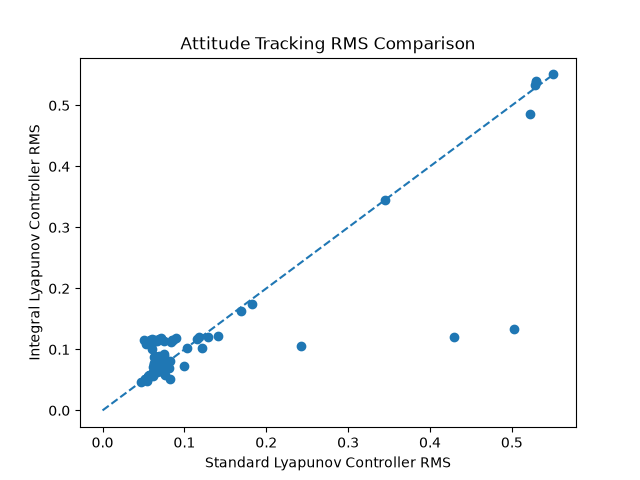
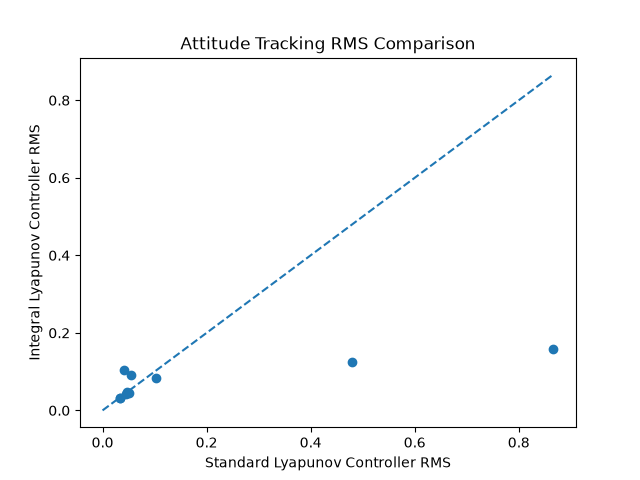
update

diff --git a/experiments/lyapunov_controller/monte_carlo_performance_comparison/monte_carlo_simulation.py b/experiments/lyapunov_controller/monte_carlo_performance_comparison/monte_carlo_simulation.py
@@ -65,7 +65,7 @@ state_provider = MRPStateProvider()
 def get_random_gains():
 
     K = np.random.uniform(0.0, 50.0)
-    KI = 10 ** np.random.uniform(-5.0, 1.0)
+    KI = 10 ** np.random.uniform(-3.0, 1.0)
     P = make_spd_matrix(3)
 
     return K, KI, P
@@ -147,7 +147,8 @@ def simulate_integral_controller(K, P, KI):
 
 
 # monte carlo simulation
-num_simulations = 100
+num_simulations = 10
+steady_state_start = 200.0
 standard_sigma_rms_history = np.zeros(num_simulations)
 standard_omega_rms_history = np.zeros(num_simulations)
 integral_sigma_rms_history = np.zeros(num_simulations)
@@ -170,8 +171,9 @@ for trial in range(num_simulations):
             standard_sigma_norm_history[i] = np.linalg.norm(sigma_BR_B)
             standard_omega_norm_history[i] = np.linalg.norm(omega_BR_B)
 
-        standard_sigma_rms_history[trial] = np.sqrt(np.mean(standard_sigma_norm_history ** 2))
-        standard_omega_rms_history[trial] = np.sqrt(np.mean(standard_omega_norm_history ** 2))
+        steady_state_time = standard_sol.t >= steady_state_start
+        standard_sigma_rms_history[trial] = np.sqrt(np.mean(standard_sigma_norm_history[steady_state_time] ** 2))
+        standard_omega_rms_history[trial] = np.sqrt(np.mean(standard_omega_norm_history[steady_state_time] ** 2))
 
         # integral controller rms history
         integral_sigma_norm_history = np.zeros(len(integral_sol.t))
@@ -184,8 +186,9 @@ for trial in range(num_simulations):
             integral_sigma_norm_history[j] = np.linalg.norm(sigma_BR_B)
             integral_omega_norm_history[j] = np.linalg.norm(omega_BR_B)
 
-        integral_sigma_rms_history[trial] = np.sqrt(np.mean(integral_sigma_norm_history ** 2))
-        integral_omega_rms_history[trial] = np.sqrt(np.mean(integral_omega_norm_history ** 2))
+        steady_state_time = integral_sol.t >= steady_state_start
+        integral_sigma_rms_history[trial] = np.sqrt(np.mean(integral_sigma_norm_history[steady_state_time] ** 2))
+        integral_omega_rms_history[trial] = np.sqrt(np.mean(integral_omega_norm_history[steady_state_time] ** 2))
 
 # get scatter
 plt.scatter(standard_sigma_rms_history, integral_sigma_rms_history)
